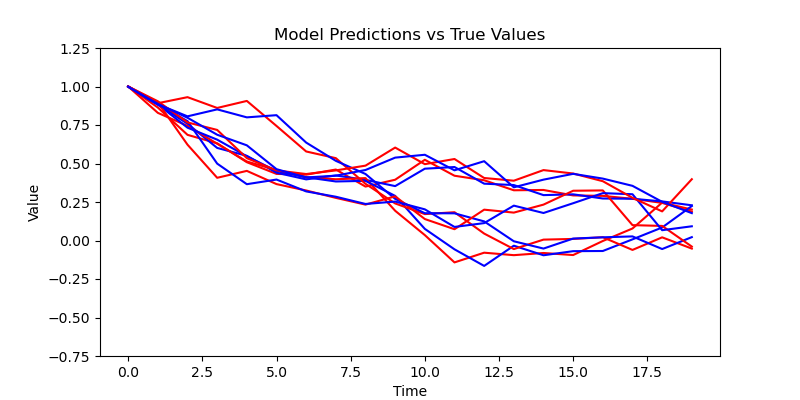
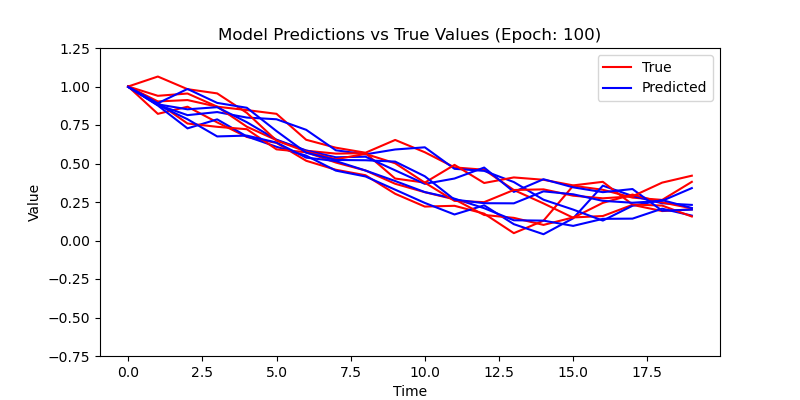
final changes

diff --git a/visualization.py b/visualization.py
@@ -1,6 +1,6 @@
 import torch
 import matplotlib.pyplot as plt
-
+from matplotlib.lines import Line2D
 
 def plot_predictions(epoch, test_loader, model, criterion, fig_path, device):
     """Plot the model predictions
@@ -36,16 +36,24 @@ def plot_predictions(epoch, test_loader, model, criterion, fig_path, device):
     all_preds = torch.cat(all_preds, dim=0)
     all_trues = torch.cat(all_trues, dim=0)
 
-
-
     num_samples = 5      
     plt.figure(figsize=(8, 4))
+
+    # Plot all samples without labels
     for i in range(num_samples):
         plt.plot(all_trues[i].numpy(), color='r')
         plt.plot(all_preds[i].numpy(), color='b')
+
+    # Add a custom legend
+    legend_elements = [
+        Line2D([0], [0], color='r', label='True'),
+        Line2D([0], [0], color='b', label='Predicted')
+    ]
+    plt.legend(handles=legend_elements)
+
     plt.xlabel('Time')
     plt.ylabel('Value')
-    plt.ylim(-0.75,1.25)
-    plt.title('Model Predictions vs True Values')
+    plt.ylim(-0.75, 1.25)
+    plt.title(f'Model Predictions vs True Values (Epoch: {epoch})')
     plt.savefig(fig_path + f'Epoch={epoch}.png')
 

diff --git a/main.py b/main.py
@@ -2,7 +2,7 @@ from train import train_model
 import torch
 
 if __name__ == '__main__':
-    fig_path = './plots/'
-    device = torch.device("cuda" if torch.cuda.is_available() else "cpu")
-    config_file = './model_config.yaml'
+    fig_path = './plots/' #Path to the directory to store plots
+    device = torch.device("cuda" if torch.cuda.is_available() else "cpu") #Backend to be used
+    config_file = './model_config.yaml' #Model configuration parameters
     train_model(config_file, fig_path, device)

diff --git a/models/vector_fields.py b/models/vector_fields.py
@@ -1,3 +1,6 @@
+# All credits to Oh, Y., Lim, D., & Kim, S. (2024). Stable Neural Stochastic Differential Equations in Analyzing Irregular Time Series Data. arXiv preprint arXiv:2402.14989.
+
+
 import torch
 import torch.nn as nn
 import torchcde

diff --git a/README.md b/README.md
@@ -7,7 +7,23 @@ Implemented from
 - Xuanqing Liu, Tesi Xiao, Si Si, Qin Cao, Sanjiv Kumar, and Cho-Jui Hsieh. Neural sde: Stabilizing neural ode
 networks with stochastic noise. arXiv preprint arXiv:1906.02355, 2019.
 
-To run code, navigate to the project directory and run main.py
+## Running the code
+
+- Clone the repo and navigate to the project directory
+- For conda users, create and activate a conda environment
+```bash
+conda env create --name envname --file=environment.yml
+```
+- For pip users, install requirements directly
+```bash
+pip install requirements.txt
+```
+- Run the script
+```bash
+python main.py
+```
+
+## Additional Information
 
 - Model configs stored in /model_config.yaml
 - OU path configs stored in /datasets/OU_config.yaml
